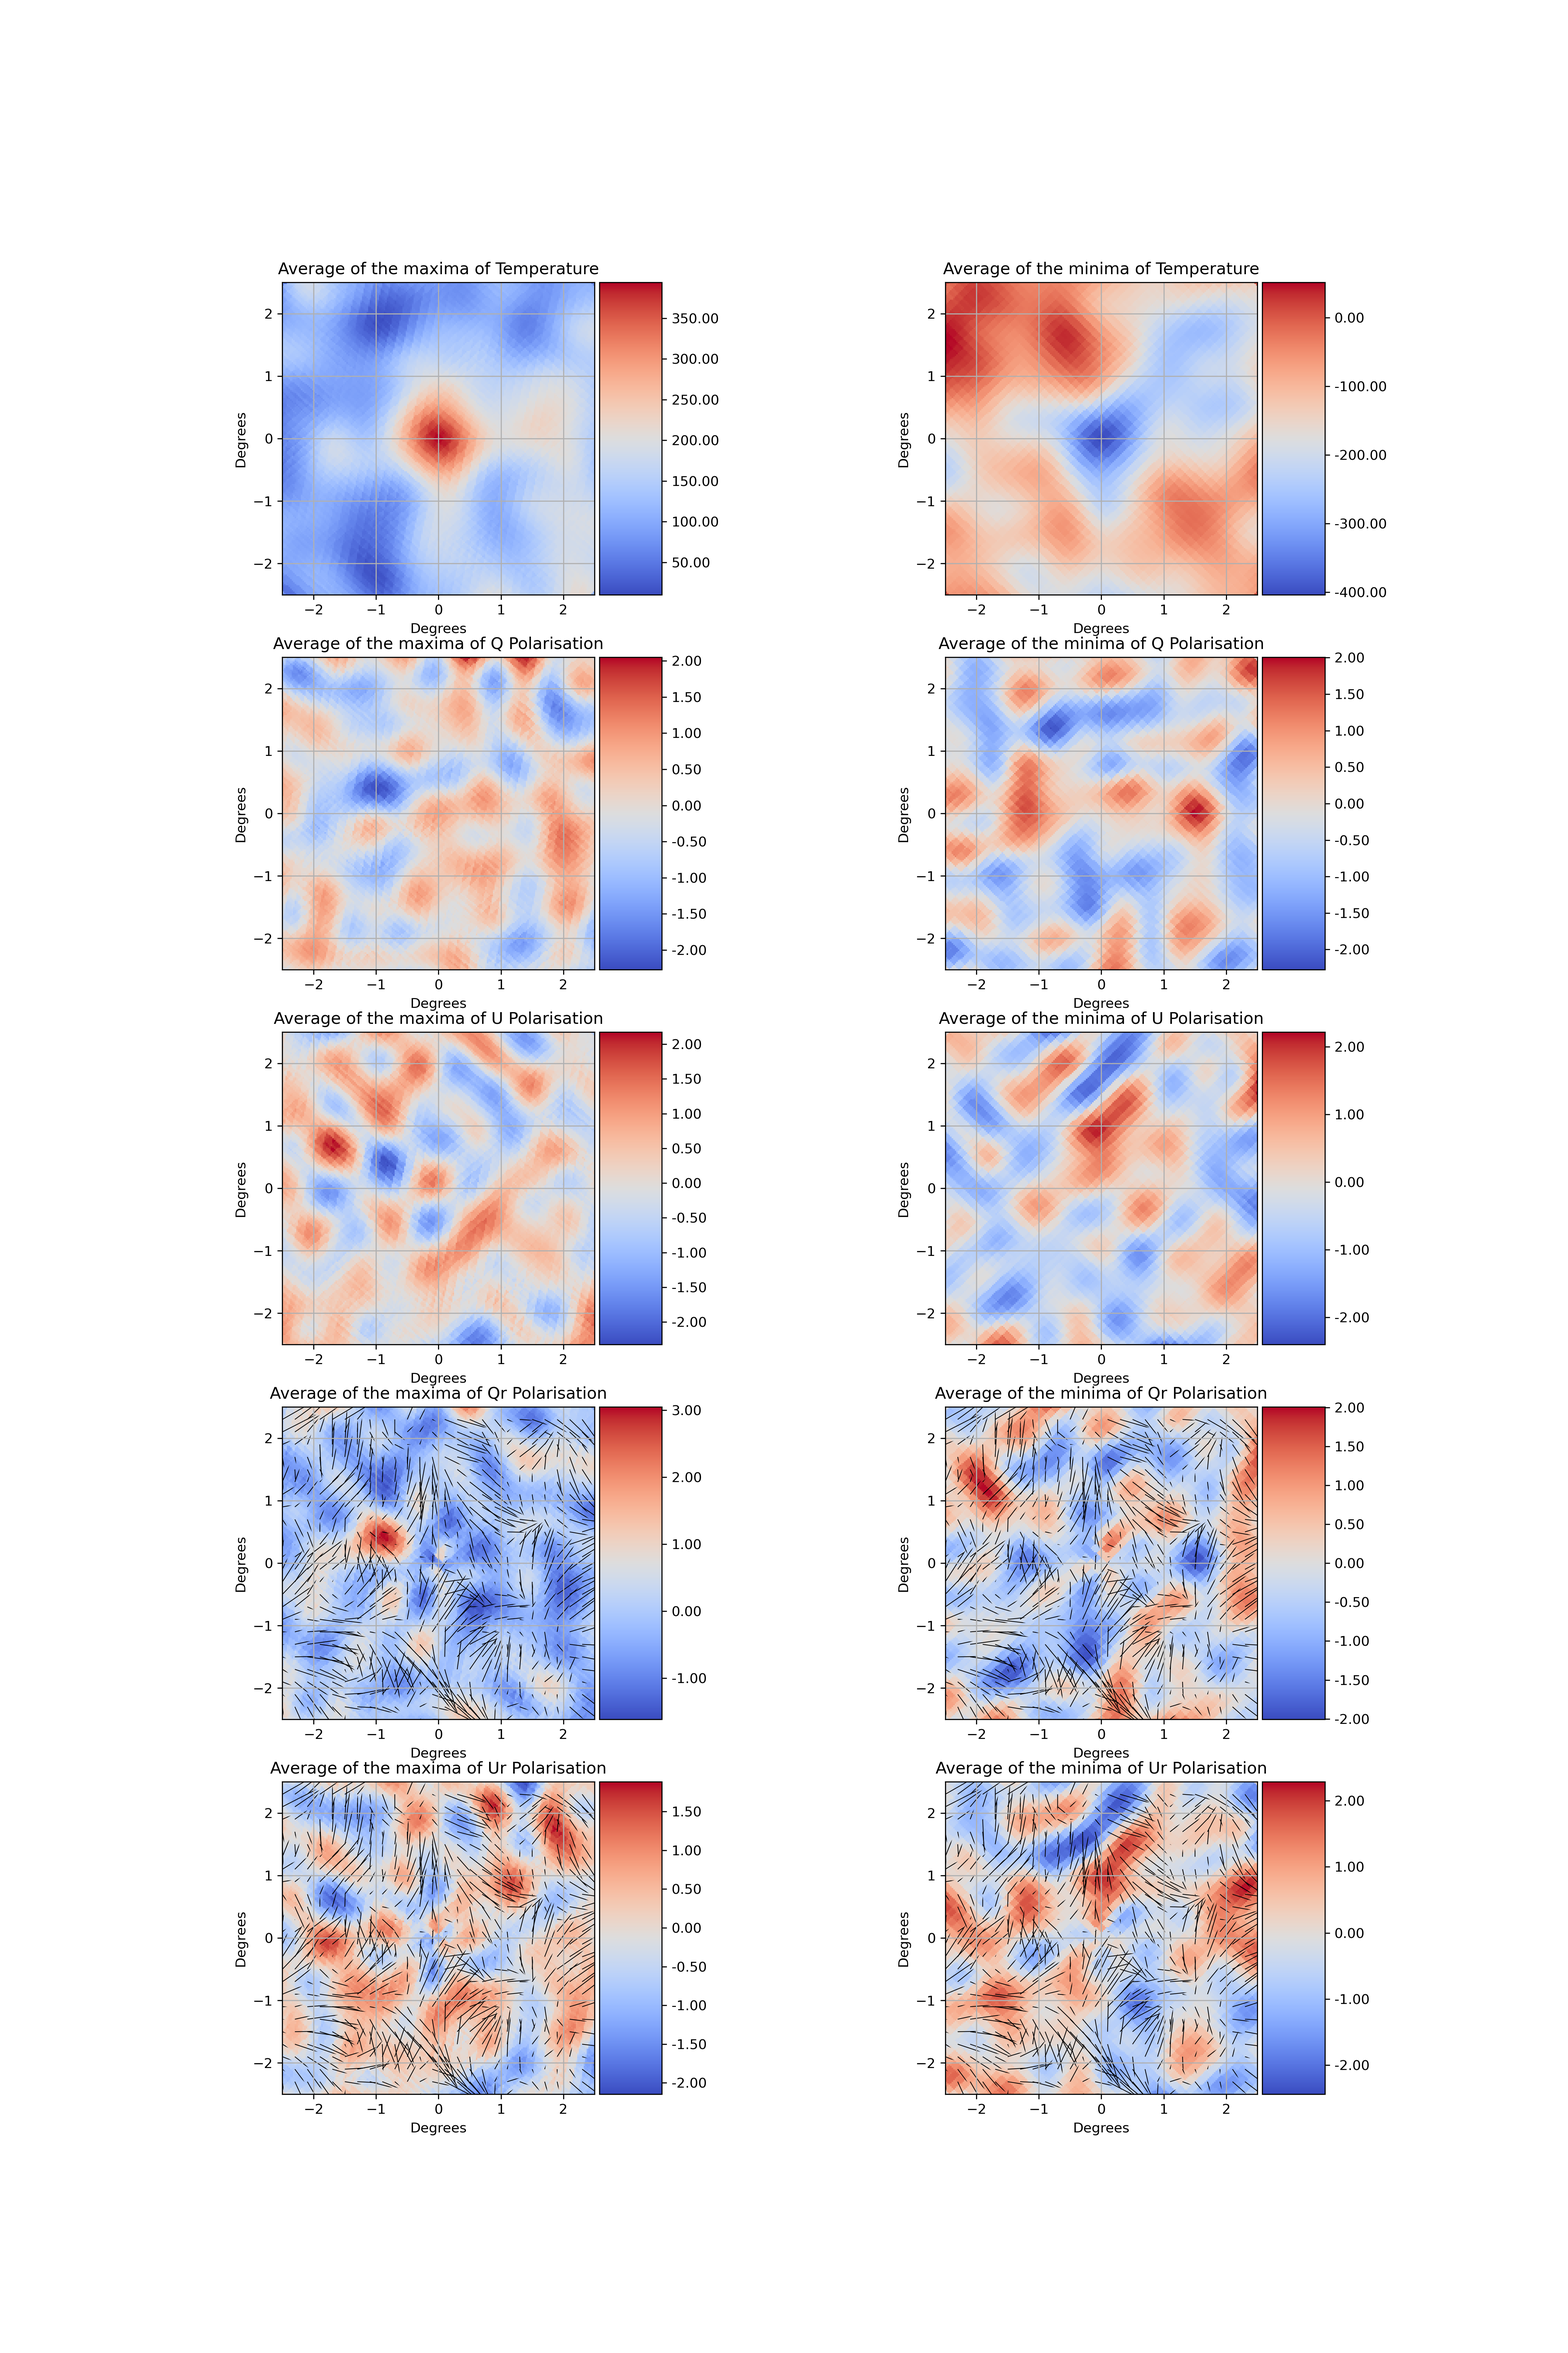
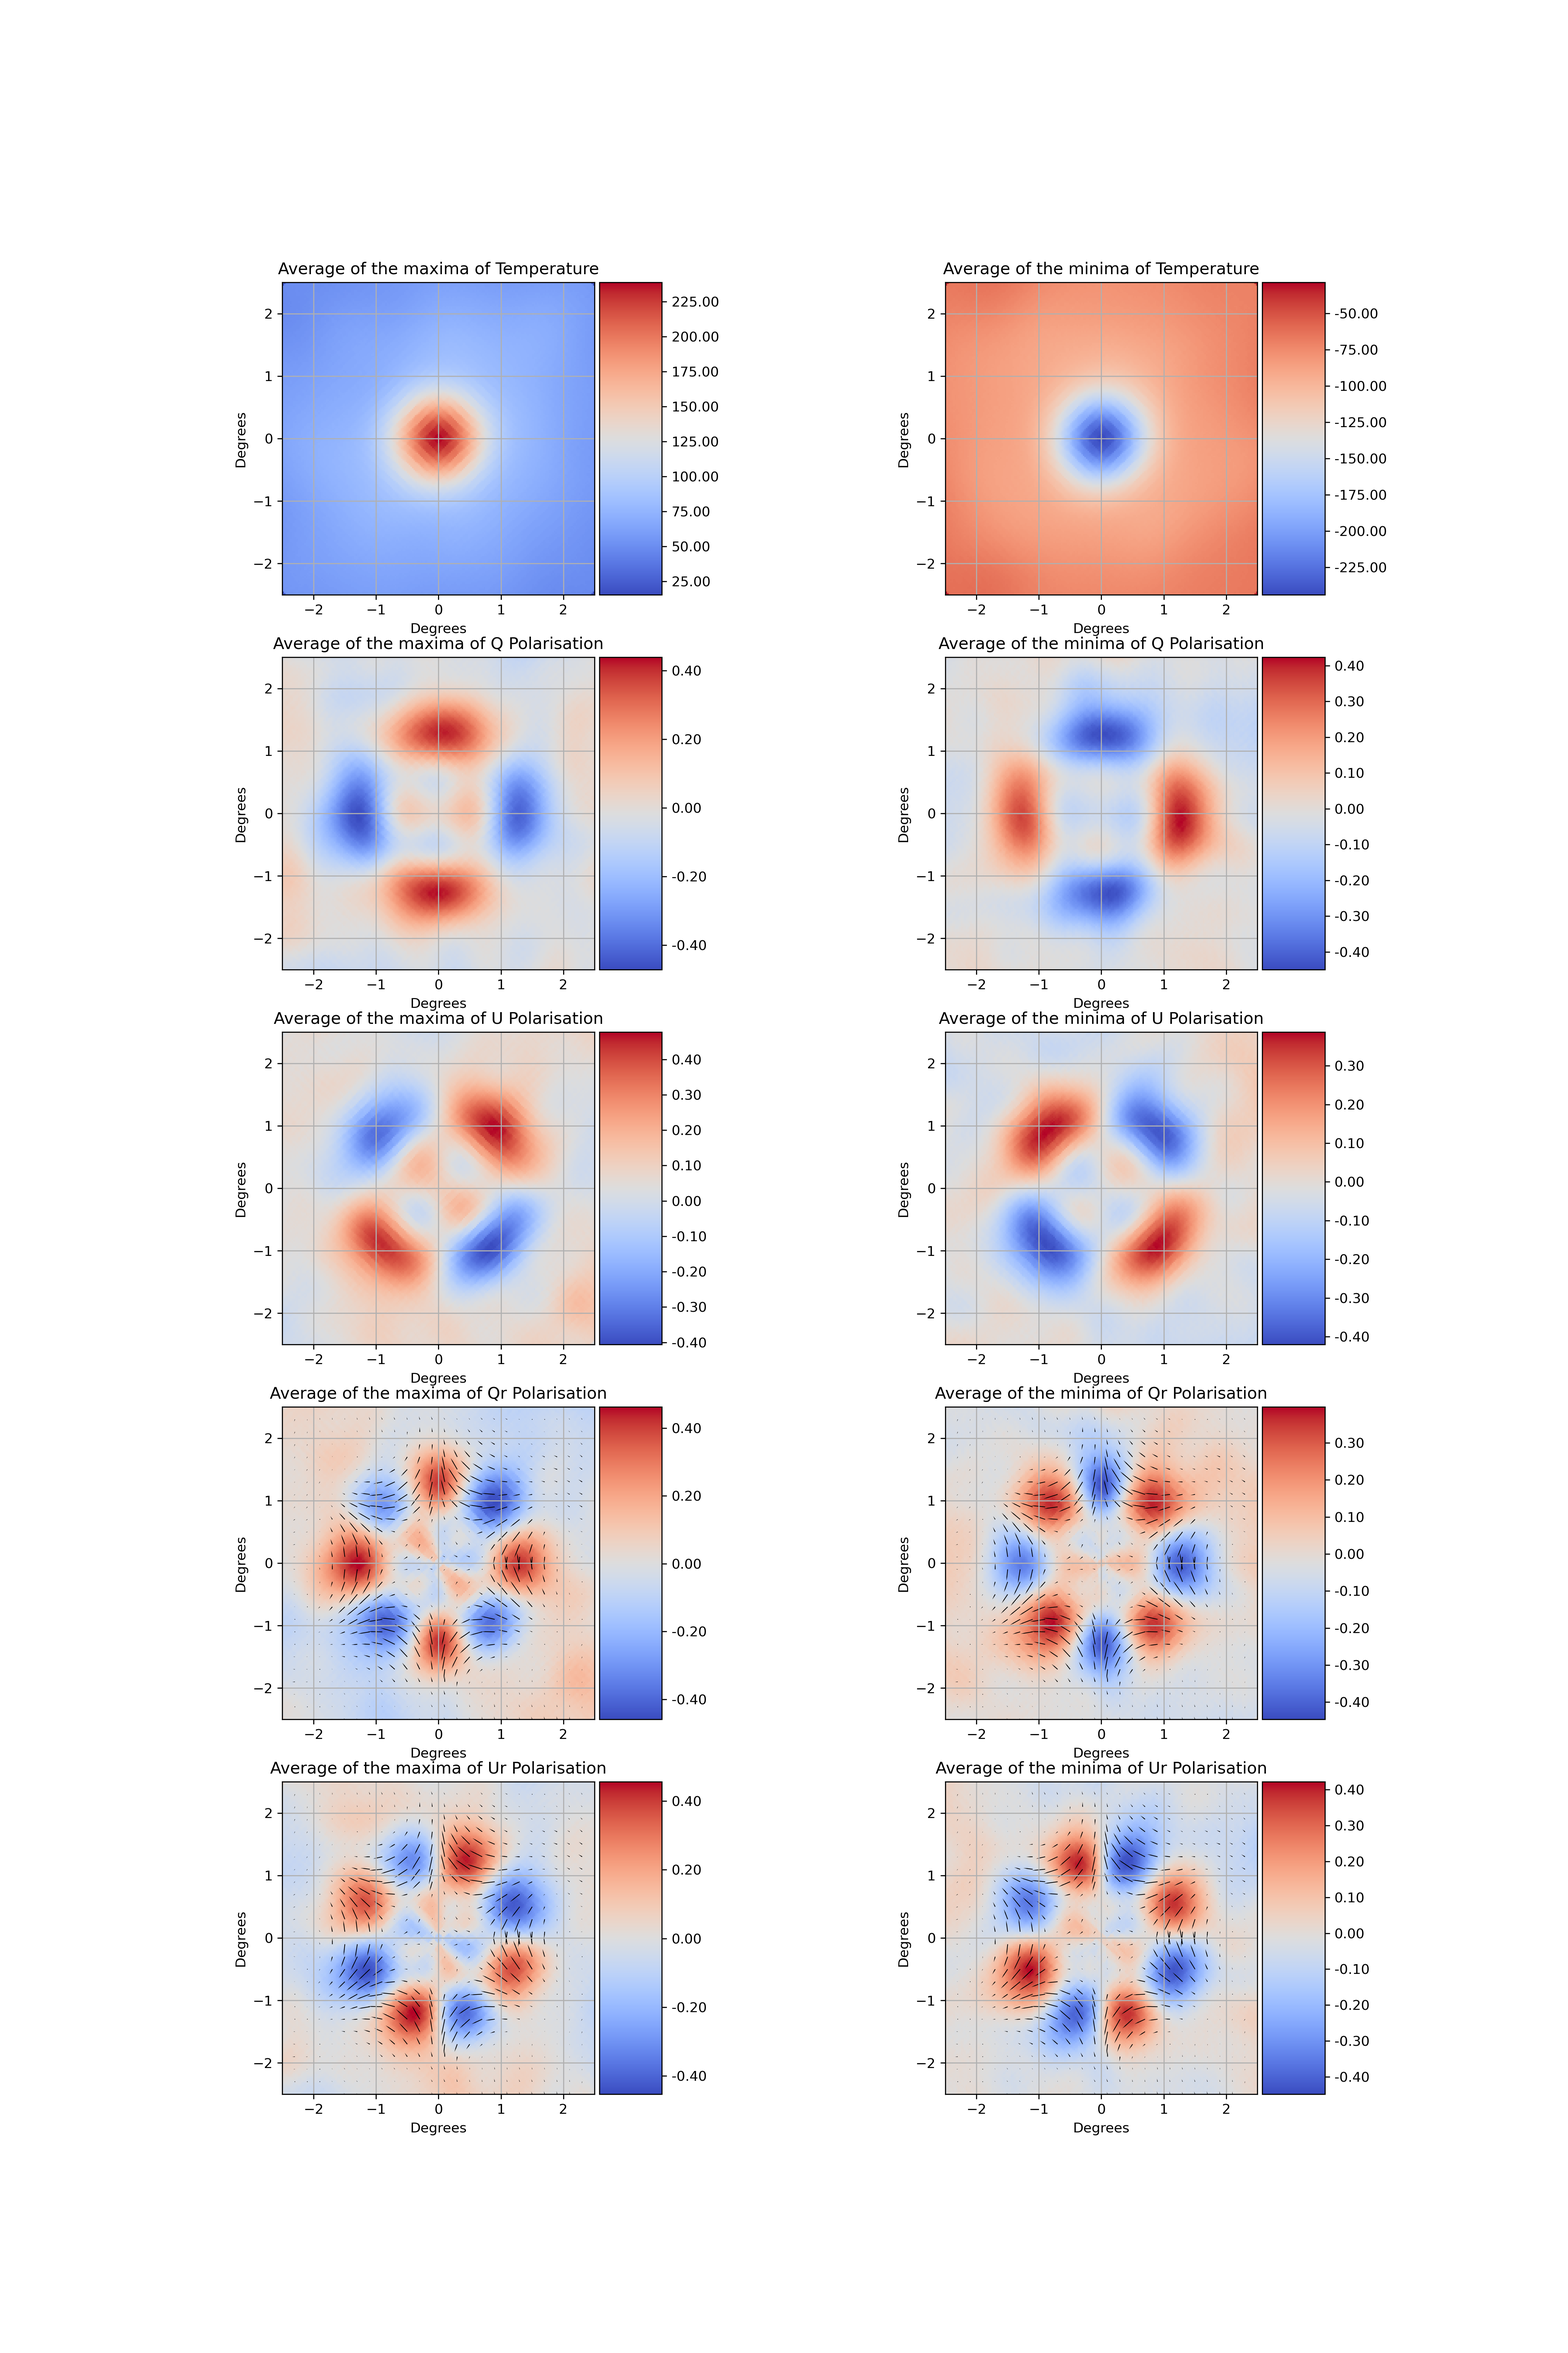
committing in case my calcs fail

diff --git a/CMB/average_finder.py b/CMB/average_finder.py
@@ -5,6 +5,7 @@ import camb
 import multiprocessing as mp
 from joblib import Parallel, delayed, parallel_backend
 from numba import jit
+import time
 
 # Importing modules required for maps
 from matplotlib import pyplot as plt
@@ -34,21 +35,19 @@ def east_phi(lon_c, lat_c, lon_p, lat_p):
 
 # Generate polarization vectors using Numba
 @jit(nopython=True)
-def pol_vec(Q, U):
-    psi = 0.5 * np.arctan2(U, Q)
-    P = np.sqrt(Q**2 + U**2)
+def pol_vec(Qr, Ur):
+    psi = 0.5 * np.arctan2(Ur, Qr) + np.pi
+    P = np.sqrt(Qr**2 + Ur**2)
     return psi, P
 
 
-# Functions needed for plots
-
-
 # Function to create inputs for vector map
-def vectormap(step, Q, U):
+def vectormap(step, Qr, Ur):
     sample_row = np.arange(0, 200, step)
     sample_col = np.arange(0, 200, step)
     psi, P = pol_vec(
-        Q[np.ix_(sample_row, sample_col)], U[np.ix_(sample_row, sample_col)]
+        Qr[np.ix_(sample_row, sample_col)],
+        Ur[np.ix_(sample_row, sample_col)],
     )
     x, y = np.meshgrid(
         np.arange(-2.5, 2.5, step / 200 * 5), np.arange(-2.5, 2.5, step / 200 * 5)
@@ -63,21 +62,25 @@ def compute_vectormaps(average, step):
     x_dict, y_dict, u_dict, v_dict = {}, {}, {}, {}
     for minmax in range(2):
         x, y, ur, vr = vectormap(
-            step, average[minmax, 3, :, :], average[minmax, 4, :, :]
+            step,
+            average[minmax, 3, :, :],
+            average[minmax, 4, :, :],
         )
         x_dict[minmax] = x
         y_dict[minmax] = y
-        u_dict["Qr"] = ur
-        v_dict["Qr"] = vr
-        u_dict["Ur"] = ur
-        v_dict["Ur"] = vr
+        u_dict["Q"] = ur
+        v_dict["Q"] = vr
+        u_dict["U"] = ur
+        v_dict["U"] = vr
 
     return x_dict, y_dict, u_dict, v_dict
 
 
 # Function for plotting
 def plot_param(ax, im_data, x, y, u, v, params, minmax, quiver_params=None):
-    im = ax.imshow(im_data, extent=(-2.5, 2.5, -2.5, 2.5), cmap="coolwarm")
+    im = ax.imshow(
+        im_data, extent=(-2.5, 2.5, -2.5, 2.5), origin="lower", cmap="coolwarm"
+    )
     ax.grid()
     ax.set_xlabel("Degrees")
     ax.set_ylabel("Degrees")
@@ -87,25 +90,18 @@ def plot_param(ax, im_data, x, y, u, v, params, minmax, quiver_params=None):
     plt.colorbar(im, cax=cax, format="%.2f")
 
     if quiver_params:
-        ax.quiver(x, y, u, v, scale=15, headwidth=1, color="black")
+        ax.quiver(x, y, u, v, scale=8, headwidth=1, color="black")
 
 
 # Function to compute data for one peak with an index
 def process_peak(smooth_map, index, minmax, j, nside):
-    # Find angular coordinates of longitude and latitude of the given peak
     lon, lat = hp.pix2ang(nside, index[minmax, j], lonlat=True)
-    # position vector of the peak
     pos = hp.ang2vec(lon, lat, lonlat=True)
-    # Find neighbours in a 5x5 degree area centred at the central point
     neigh = hp.query_disc(nside, pos, np.radians(np.sqrt(2 * 2.5**2)))
     neigh_lon, neigh_lat = hp.pix2ang(nside, neigh, lonlat=True)
-    # getting angluar coordinates of tbe neighbour points
     phi = east_phi(lon, lat, neigh_lon, neigh_lat)
-    # array of values of an empty map which will then be filled by data of neighbours
     empty = np.zeros((5, hp.nside2npix(nside)))
-    # array for the map of the neighbours of this peak
     result = np.zeros((5, 200, 200))
-    # loop for each parameter
     for pindx in range(5):
         if pindx < 3:
             empty[pindx, neigh] = smooth_map[pindx, neigh]
@@ -125,13 +121,12 @@ def process_peak(smooth_map, index, minmax, j, nside):
 
 
 def stack_cmb_params(no_spots, lensing=True, nside=512):
-    # Use input initial params to generate CMB spectra
     planck2018pars = camb.read_ini("planck_2018.ini")
     planck2018 = camb.get_results(planck2018pars)
     powers = planck2018.get_cmb_power_spectra(
         planck2018pars, CMB_unit="muK", raw_cl=True
     )
-    if lensing == True:
+    if lensing:
         aCl_Total = powers["total"]
     else:
         aCl_Total = powers["unlensed_total"]
@@ -151,13 +146,11 @@ def stack_cmb_params(no_spots, lensing=True, nside=512):
         [np.argsort(smooth[0])[-no_spots:], np.argsort(smooth[0])[:no_spots]]
     )
 
-    # Initialize the final stacked array
     stacked = np.zeros((2, 5, 200, 200))
 
-    # Set multiprocessing start method to 'spawn' or 'forkserver'
     mp.set_start_method("spawn", force=True)
     with parallel_backend("loky"):
-        results = Parallel(n_jobs=-1)(
+        results = Parallel(n_jobs=8, timeout=600)(
             delayed(process_peak)(smooth, index, minmax, j, nside)
             for minmax in range(2)
             for j in range(no_spots)
@@ -170,15 +163,21 @@ def stack_cmb_params(no_spots, lensing=True, nside=512):
 
 # Run function
 peaks = 20000
-lensed = stack_cmb_params(peaks)
-nolens = stack_cmb_params(peaks)
 
-# vector sample step
+start_time = time.time()
+lensed = stack_cmb_params(peaks, lensing=True)
+end_time = time.time()
+print(f"Runtime for lensed stack: {end_time - start_time} seconds")
+
+start_time = time.time()
+nolens = stack_cmb_params(peaks, lensing=False)
+end_time = time.time()
+print(f"Runtime for nolens stack: {end_time - start_time} seconds")
+
 step = 8
 x_dict, y_dict, ul_dict, vl_dict = compute_vectormaps(lensed, step)
 x_dict, y_dict, un_dict, vn_dict = compute_vectormaps(nolens, step)
 
-# Create figures
 figl, axl = plt.subplots(5, 2, figsize=(16, 24), dpi=300)
 fign, axn = plt.subplots(5, 2, figsize=(16, 24), dpi=300)
 
@@ -193,12 +192,11 @@ for minmax in range(2):
             "Ur Polarisation",
         ],
     ):
-        # lensed plot
         quiver_params = None
         if params == 3:
-            quiver_params = "Qr"
+            quiver_params = "Q"
         elif params == 4:
-            quiver_params = "Ur"
+            quiver_params = "U"
 
         plot_param(
             axl[params, minmax],
@@ -212,8 +210,6 @@ for minmax in range(2):
             quiver_params,
         )
 
-        # no lens plot
-
         plot_param(
             axn[params, minmax],
             nolens[minmax, params, :, :],
@@ -226,7 +222,6 @@ for minmax in range(2):
             quiver_params,
         )
 
-# Save figures
 figl.savefig("Output/Lensed_Average.png")
 fign.savefig("Output/Nolensed_Average.png")
 
